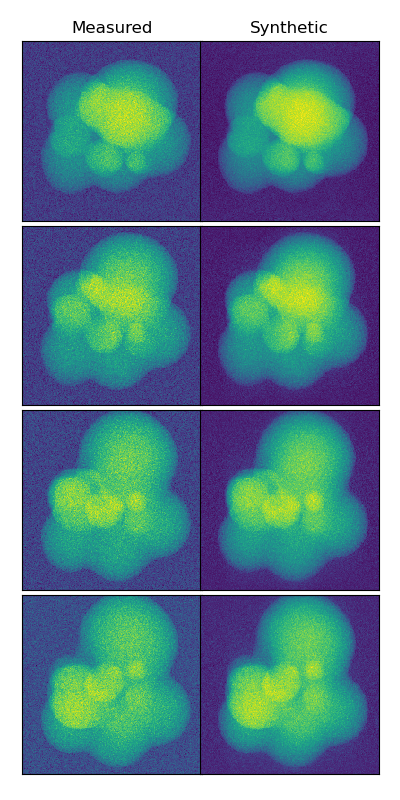
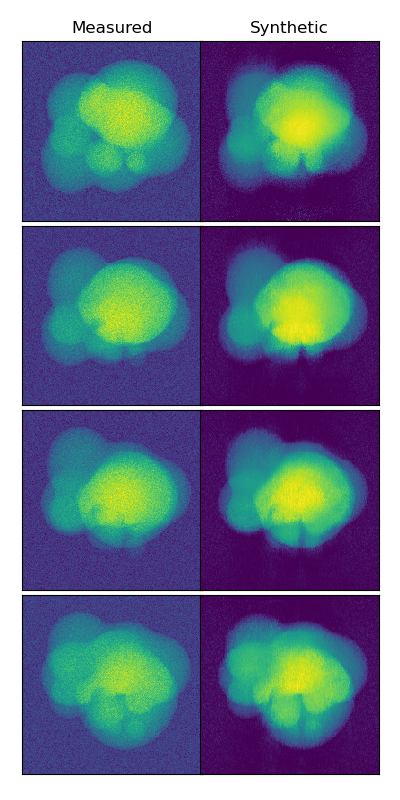
making spin angle differentiable

diff --git a/src/utilities.py b/src/utilities.py
@@ -7,6 +7,7 @@ Created on Thu Dec 26 09:35:04 2024
 """
 
 import torch as tc
+from torch.nn import functional as fn
 
 def generate_gaussian_model(num_voxel, num_mode, 
                             thresh=5E-2, std_max=0.2, mean_max=0.5):
@@ -28,75 +29,47 @@ def generate_gaussian_model(num_voxel, num_mode,
     return (space>thresh).to(dtype=tc.float)
 
 def rotate_model(model, axis, angle):
-    # apply a continuous rotation to a voxel model
     
-    num_voxel = model.shape[0]    
+    # initialize helper variables for affine transformation matrix definition
     ax = axis/tc.linalg.norm(axis, ord=2)
-    cos = tc.cos(angle)
+    cos,sin = tc.cos(angle), tc.sin(angle)
     ncos = 1-cos
-    sin = tc.sin(angle)
+    
+    # initialize arguments for grid functions
+    grid_args = {'align_corners':False}
+    grid_shape = (1,1)+tuple(model.shape)
     
     # via https://en.wikipedia.org/wiki/Rotation_matrix#Rotation_matrix_from_axis_and_angle
-    R = tc.Tensor([[ax[0]**2*ncos+cos, ax[0]*ax[1]*ncos-ax[2]*sin, ax[0]*ax[2]*ncos+ax[1]*sin], \
-                   [ax[0]*ax[1]*ncos+ax[2]*sin, ax[1]**2*ncos+cos, ax[1]*ax[2]*ncos-ax[0]*sin], \
-                   [ax[0]*ax[2]*ncos-ax[1]*sin, ax[1]*ax[2]*ncos+ax[0]*sin, ax[2]**2*ncos+cos]])
+    # (this weird construction is necessary to maintain autograd graph)
+    zero = tc.zeros(1)[0]
+    R1 = tc.stack((ax[0]**2*ncos+cos, ax[0]*ax[1]*ncos-ax[2]*sin, ax[0]*ax[2]*ncos+ax[1]*sin,zero))
+    R2 = tc.stack((ax[0]*ax[1]*ncos+ax[2]*sin, ax[1]**2*ncos+cos, ax[1]*ax[2]*ncos-ax[0]*sin,zero))
+    R3 = tc.stack((ax[0]*ax[2]*ncos-ax[1]*sin, ax[1]*ax[2]*ncos+ax[0]*sin, ax[2]**2*ncos+cos,zero))
+    R = tc.stack((R1,R2,R3))
     
-    # define array coordinate system
-    indexing = tc.arange(num_voxel)
-    xgrid, ygrid, zgrid = tc.meshgrid((indexing, indexing, indexing))
-    grids = (xgrid.flatten(), ygrid.flatten(), zgrid.flatten())
-    coords = tc.stack(grids).to(dtype=tc.int64)
+    # use torch's interpolating (differentiable) matrix affine transformation
+    grid = fn.affine_grid(R[None,:,:], grid_shape, **grid_args) 
+    model_rot = fn.grid_sample(model[None,None,:,:,:], grid, **grid_args)
     
-    # apply rotation to coordinate system
-    coords_rot = (tc.matmul(R, coords-num_voxel/2)+num_voxel/2).round().to(dtype=tc.int64)
-    
-    # discard coordinates outside of array bounds
-    mask_lo = coords_rot>=0
-    mask_hi = coords_rot<num_voxel
-    mask = tc.all(tc.logical_and(mask_lo, mask_hi), dim=0)
-    coords = coords[:,mask].T
-    coords_rot = coords_rot[:,mask].T
-    
-    # apply rotated coordinate system
-    model_rot = tc.zeros(model.shape).to(dtype=model.dtype)
-    model_rot[coords[:,0],coords[:,1],coords[:,2]] \
-        = model[coords_rot[:,0],coords_rot[:,1],coords_rot[:,2]]
-        
-    return model_rot
+    return model_rot[0,0,:,:,:]
     
 def observe_model(model, noise = 0):
+    
     image = model.sum(dim=0)/model.shape[0]
     image += tc.normal( tc.zeros(image.shape), noise)
     return image
 
-def loss_function(images, model, axis, angles):
-    assert(len(angles)==len(images))
-        
+def loss_function(times, images, model, angle_rate, axis):
+    assert(len(times)==len(images))
+            
     # initialize loss with continuous penalty function for non-physical 
     # occupancy values (basically just a reciprocal super-gaussian)
     center,width = 0.5,0.5
-    loss = tc.sum( tc.exp(((model-center)/width/1.5)**4)-1 )/1E3
+    loss = tc.sum( tc.exp(((model-center)/width/1.5)**8)-1 )/1E3
     
     # loss is sum-squared residuals between synthetic and measured images
-    for angle,image in zip(angles, images):
+    for image,angle in zip(images, angle_rate*times):
         image_sim = observe_model(rotate_model(model, axis, angle))
         loss += tc.sum((image-image_sim)**2)
     
     return loss
-
-if __name__ == '__main__':
-    
-    import matplotlib.pyplot as plt
-
-    model = generate_gaussian_model(200, 30)
-    angle_rate = tc.Tensor([tc.pi/100])
-    
-    for k in range(100):
-
-        model2 = rotate_model(model, tc.Tensor([0,0,1]), k*angle_rate)
-        image = observe_model(model2, 0.05)
-    
-        plt.figure(1)
-        plt.clf()
-        plt.imshow(image)
-        plt.pause(0.05)

diff --git a/driver.py b/driver.py
@@ -20,23 +20,37 @@ num_mode = 30
 truth_model = utl.generate_gaussian_model(num_voxel, num_mode)
 
 # define observational parameters
-angles = tc.linspace(0,tc.pi,10)
-axis = tc.Tensor([0,0,1])
+angle_rate = tc.pi
+times = tc.linspace(0,1,10)
+
+axis = tc.Tensor([1,0,0])
 noise = 0.05
 
 # simulate measurements - 4E5 total pixels
 images = [utl.observe_model(utl.rotate_model(truth_model, axis, angle), noise) \
-          for angle in angles]
+          for angle in angle_rate*times]
 
 # recover model via fit - 8E6 total free model parameters
 tic = tm.time()
-num_epoch = 75
+num_epoch = 50
 cand_model = tc.zeros((num_voxel,num_voxel,num_voxel), requires_grad=True)
-optimizer = tc.optim.Adam([cand_model], lr=4E-2)
+cand_angle_rate = tc.ones((1,), requires_grad=True)
+
+# tc.no_grad context manager necessary to keep cand_angle_rate as a valid leaf 
+# node
+with tc.no_grad(): cand_angle_rate *= 2.5
+
+# define parameter groups to enable to different learning rates for fit-for 
+# variables
+params = [{'params': cand_model,      'lr': 5E-2}, 
+          {'params': cand_angle_rate, 'lr': 5E-3}]
+optimizer = tc.optim.Adam(params)
+
+# run optimization loop
 for k in range(num_epoch):
     optimizer.zero_grad()
-    loss = utl.loss_function(images, cand_model, axis, angles)
-    loss.backward()
+    loss = utl.loss_function(times, images, cand_model, cand_angle_rate, axis)
+    loss.backward(retain_graph=True)
     optimizer.step()
     print(f"Iteration: {k:3.0f}, Loss: {loss.item():8.1f}")
 
@@ -44,4 +58,4 @@ cand_model.detach_().round_()
 print(f"Total time: {tm.time()-tic:.1f} s")
 
 outfile = 'outputs/comparison.png'
-plt.show_comparison(images, cand_model, axis, angles, outfile)
+plt.show_comparison(images, cand_model, axis, times*cand_angle_rate, outfile)
